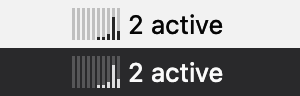
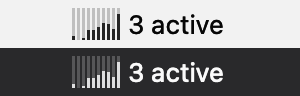
Docs: full-day TODAY screenshots, $ on the SPEND Y labels
demo_data.py --day writes a workday on the clock (from 6:20, plus a
session left running past midnight) so TODAY shots fill 9 of 10 bars.
Re-shot panel, deck, menu-bar icon and og card with v0.2.0. The SPEND
graph's Y labels now read $20 $15 $10 $5 (a smaller $ fits the 15 px
column); SESSIONS labels stay plain. Fix the deck alt text and NOTES.

diff --git a/docs/index.html b/docs/index.html
@@ -333,7 +333,7 @@ footer a:hover { color: var(--fg); }
     <div class="cards">
       <div class="card reveal">
         <div class="bar"><span>Deck</span><span class="meta">docked</span></div>
-        <div class="body"><img class="deck" src="deck.png" width="146" height="92" alt="The docked deck showing $40 per hour"></div>
+        <div class="body"><img class="deck" src="deck.png" width="146" height="92" alt="The docked deck showing $15 per hour"></div>
         <p class="cap">Dock the rack and it shrinks to a small deck with the same graph.</p>
       </div>
       <div class="card reveal">

diff --git a/src/dfx_agent_enhancer/ui/app.css b/src/dfx_agent_enhancer/ui/app.css
@@ -92,6 +92,7 @@ button { font: inherit; border: 0; background: none; color: inherit; cursor: def
 .cols { position: absolute; inset: 0; }
 .col { position: absolute; top: 11px; width: 23px; height: 76.5px; }
 .grid i { position: absolute; left: 0; width: 246px; height: 1px; background: rgba(149, 179, 22, .3); }
+.db small { font-size: 7.5px; letter-spacing: -.3px; margin-right: .2px; vertical-align: .5px; }
 .db span {
   position: absolute; right: 231px; transform: translateY(-50%);
   font: italic 700 9.5px/9px Arial, Helvetica, sans-serif; color: #6f8808; letter-spacing: -.2px;

diff --git a/src/dfx_agent_enhancer/ui/app.js b/src/dfx_agent_enhancer/ui/app.js
@@ -271,7 +271,10 @@
     var sp = s.spectrum[s.metric];
     setHeights($("fills"), sp.heights);
     var yl = $("ylab").children;
-    for (var i = 0; i < yl.length; i++) yl[i].textContent = sp.labels[i] || "";
+    for (var i = 0; i < yl.length; i++) {      // a "$" prefix is drawn smaller so "$40" fits the 15 px column
+      var lab = sp.labels[i] || "";
+      yl[i].innerHTML = lab.charAt(0) === "$" ? '<small>$</small>' + lab.slice(1) : lab;
+    }
     $("lime-text").textContent = sp.tab;
     $("tab-lime").dataset.tip = sp.tip || "";
     renderAxis(s.axis);

diff --git a/tools/demo_data.py b/tools/demo_data.py
@@ -5,6 +5,8 @@
     python3 tools/demo_data.py /tmp/dfx-demo --live      # keep appending every second or so
     python3 tools/demo_data.py /tmp/dfx-demo --at 17:20  # history up to 17:20 today (for screenshots
                                                          # of TODAY; build the snapshot with that now)
+    python3 tools/demo_data.py /tmp/dfx-demo --day [--at 22:40]  # a full workday on the clock for
+                     # TODAY shots: a session left running past midnight, then work from 6:20 to now
 
 Claude Code: three sessions, one with Task subagents and a workflow, streamed assistant
 messages (several records per message.id) with usage as Claude Code writes it (1-hour cache
@@ -70,16 +72,19 @@ def cursor_line(kind: str) -> str:
     return line({"role": "assistant", "message": {"content": [{"type": "tool_use", "name": "ReadFile", "input": {"path": "x"}}]}})
 
 
-def history(path: str, sid: str, model: str, sidechain: bool, now: float, start: float, busy) -> None:
+def history(path: str, sid: str, model: str, sidechain: bool, now: float, start: float, busy,
+            trickle: bool = True, pace: tuple = (8, 40)) -> None:
     """Turns from start to now: one every 8-40 s inside the busy blocks ((from, to) hours before
-    now), a trickle outside them."""
+    now), a trickle outside them (or nothing, without trickle)."""
     os.makedirs(os.path.dirname(path), exist_ok=True)
     with open(path, "w") as f:
         t = start
         while t < now - 5:
             f.write(claude_turn(t, sid, model, sidechain, path))
             hot = any(now - a * 3600 <= t < now - b * 3600 for a, b in busy)
-            t += random.uniform(8, 40) if hot else random.uniform(300, 1200)
+            t += random.uniform(*pace) if hot else random.uniform(300, 1200)
+            if not trickle and not any(now - a * 3600 <= t < now - b * 3600 for a, b in busy):
+                t = min([now - a * 3600 for a, b in busy if now - a * 3600 > t] or [now])   # next block
     os.utime(path, (now, now))
 
 
@@ -90,23 +95,40 @@ def main() -> None:
     if "--at" in sys.argv:
         h, m = map(int, sys.argv[sys.argv.index("--at") + 1].split(":"))
         now = datetime.now().replace(hour=h, minute=m, second=0, microsecond=0).timestamp()
+    day = "--day" in sys.argv
     projects = os.path.join(root, "claude", "projects")
     names = ("api", "web", "docs")       # one project folder per session: the menu lists them by name
     sids = ["5e55e55e-0000-4000-8000-00000000000%d" % i for i in (1, 2, 3)]
     claude_files = []
     # work blocks in hours before now; sessions 1 and 2 are busy again in the last 10 minutes
     busy = [((7.5, 6.2), (3.2, 1.6), (0.17, 0)), ((5.2, 4.1), (2.2, 0.6), (0.17, 0)), ((4, 2.6),)]
+    starts = [now - (8 - 2 * i) * 3600 for i in range(3)]
+    sub_busy = lambda k: ((3.1 - 0.2 * k, 1.8), (0.25, 0))
+    sub_start = lambda k: now - 3.2 * 3600 + 600 * k
+    if day:
+        # clock hours today (negative: yesterday evening); "now" ends the open blocks
+        h0 = datetime.fromtimestamp(now).replace(hour=0, minute=0, second=0, microsecond=0).timestamp()
+        nh = (now - h0) / 3600
+        ago = lambda blocks: tuple((nh - a, max(0.0, nh - b)) for a, b in blocks)
+        busy = [ago(((6.4, 9.6), (13.4, 15.6), (19.8, nh))),
+                ago(((-1.0, 0.9), (10.3, 12.6), (16.1, 18.4), (21.4, nh))),
+                ago(((11.0, 13.0), (17.2, 19.6)))]
+        starts = [h0 + 6.3 * 3600, h0 - 3600, h0 + 10.9 * 3600]
+        sub_busy = lambda k: ago(((13.6 + 0.15 * k, 14.9 - 0.1 * k),) + (((20.6, nh),) if k == 0 else ()))
+        sub_start = lambda k: h0 + (13.5 + 0.15 * k) * 3600
     # session 1: the main driver, with Task subagents and a workflow
     for i, sid in enumerate(sids):
         p = os.path.join(projects, "-Users-you-code-" + names[i], sid + ".jsonl")
-        history(p, sid, "claude-opus-5-5", False, now, now - (8 - 2 * i) * 3600, busy[i])
+        history(p, sid, "claude-opus-5-5", False, now, starts[i], busy[i], trickle=not (day and i == 1),
+                pace=(15, 48) if day else (8, 40))
         claude_files.append((p, sids[i], "claude-opus-5-5", False))
     sub = os.path.join(projects, "-Users-you-code-api", sids[0], "subagents")
     agents = [os.path.join(sub, "agent-a%02d.jsonl" % k) for k in range(3)]
     agents += [os.path.join(sub, "workflows", "wf_demo", "agent-w%02d.jsonl" % k) for k in range(2)]
     for k, p in enumerate(agents):
         model = ("claude-opus-5-5", "claude-sonnet-5-5", "claude-opus-5-5", "claude-haiku-4-5-20251001", "claude-sonnet-5-5")[k]
-        history(p, sids[0], model, True, now, now - 3.2 * 3600 + 600 * k, ((3.1 - 0.2 * k, 1.8), (0.25, 0)))
+        history(p, sids[0], model, True, now, sub_start(k), sub_busy(k), trickle=not day,
+                pace=(20, 60) if day else (8, 40))
         claude_files.append((p, sids[0], model, True))
     with open(os.path.join(sub, "workflows", "wf_demo", "journal.jsonl"), "w") as f:
         f.write(line({"kind": "started", "workflow": "wf_demo"}))

diff --git a/tests/test_snapshot.py b/tests/test_snapshot.py
@@ -408,10 +408,11 @@ def test_spectrum_metric_per_window(roots, window, bucket, start):
         assert snap["axis"][0] == {"x": 0, "text": start} and snap["axis"][-1] == {"x": 1, "text": "now"}
         for m, sp in snap["spectrum"].items():
             assert len(sp["values"]) == len(sp["heights"]) == len(sp["tips"]) == 10
-            assert len(sp["labels"]) == 4 and all(len(x) <= 2 for x in sp["labels"])
+            assert len(sp["labels"]) == 4 and all(len(x.lstrip("$")) <= 2 for x in sp["labels"])
             assert all(0 <= h <= 1 for h in sp["heights"])
         assert snap["spectrum"]["spend"]["tab"] == "Spend $/h"
-        assert snap["spectrum"]["spend"]["labels"] == ["20", "15", "10", "5"]     # the $20/h floor
+        assert snap["spectrum"]["spend"]["labels"] == ["$20", "$15", "$10", "$5"]     # the $20/h floor
+        assert snap["spectrum"]["sessions"]["labels"][0].isdigit()
         assert snap["spectrum"]["sessions"]["tab"] == "Active sessions"
         assert len(snap["rows"]) == 5
         assert snap["deckTip"].endswith(", %s. Click to expand." % snapshot.SHOWN[window])
@@ -516,7 +517,7 @@ def test_spend_tab_names_the_multiplier(roots):
     write(p, asst(NOW - 12, "big", 40000))          # $1.03 in one 30 s bucket: $123/h
     s.refresh(NOW)
     sp = snapshot.build(s, "now", "spend", now=NOW)["spectrum"]["spend"]
-    assert sp["fullScale"] == 200 and sp["tab"] == "Spend $/h ×10" and sp["labels"] == ["20", "15", "10", "5"]
+    assert sp["fullScale"] == 200 and sp["tab"] == "Spend $/h ×10" and sp["labels"] == ["$20", "$15", "$10", "$5"]
     assert sp["tip"].endswith("Top of scale: $200/h.") and "Approximate API cost" in sp["tip"]
     assert sp["values"][-1] == pytest.approx(120 * usd(40000), abs=0.01) and sp["heights"][-1] == 0.615
 

diff --git a/src/dfx_agent_enhancer/snapshot.py b/src/dfx_agent_enhancer/snapshot.py
@@ -461,6 +461,7 @@ def spectrum(a: Agg, metric: str, window: str, scales: dict | None, now: float) 
         rates = [v * 3600 / length for v in a.usd]
         fs = stable(scales, (window, metric), fs_up(max(rates), SPEND_FLOOR), fs_down, now)
         mult, labels = scale_labels(fs, 1)
+        labels = ["$" + x for x in labels]      # the page draws the $ smaller, to fit the 15 px column
         tips = []
         for i in range(NB):
             if a.usd[i] or a.out[i]:

diff --git a/NOTES.md b/NOTES.md
@@ -126,7 +126,7 @@ The user reported: dragging jumps the window to the top of the screen; TODAY sho
 - `sessions/<pid>.json` also has `name` (Claude Code's session name, e.g. `brave-otter-12`, used in the menu), `cwd`, and a third status: `waiting`, with `waitingFor` (`dialog open`, `input needed`, `worker request`, `sandbox request`). Read from the Claude Code 2.1.289 bundle (function that builds the status): a permission prompt or a question is `waiting`, `isLoading || delegatedActive` is `busy` (so a paused workflow stays busy), anything else `idle`. `waiting` is not busy, so it is not "active", and the chime treats busy -> waiting like busy -> idle (the agent stopped and wants you). Seen live on 2026-10-05: a session waiting on a question had `status: waiting, waitingFor: input needed`. A real permission prompt was not watched, but it goes through the same `waiting` branch in the bundle.
 - Chime, tested end to end on 2026-10-05: a compiled stand-in binary named `claude` (a copy of `/bin/sleep` is killed at launch, so it must be built) gives a live pid; a `sessions/<pid>.json` for it in the demo root flipped from busy (since 30 s) to idle made the running app play one chime, record "Last stopped", and show it in the menu. In a 5 min watch of the real `sessions/` files no busy session stopped (they were long workflows), so a real Claude turn ending was not observed.
 - Idle open sessions get bookkeeping lines without a timestamp, so file mtime never means "working" for Claude. Liveness is a timestamped user/assistant record in the last 90 s in any of the session's files, or `sessions/<pid>.json` (pid must be in the `ps` set of `claude` processes) with `status: busy` and a record in any of its transcripts, or a `statusUpdatedAt` (epoch ms), in the last 30 min (`snapshot.BUSY_SILENCE`, the Bash maximum). Claude Code keeps `busy` for hours while a session waits, e.g. on paused workflow agents: on 2026-10-04 three busy sessions (three different projects) had no record in any transcript from about 13:00Z to 19:01Z, and v2 counted them live all that time. Past the cap they count as open, not working. The `sessions/` folder also holds `<pid>.<hash>.key` files; only `*.json` is read.
-- Cursor: `~/.cursor/projects/<project>/agent-transcripts/<id>/<id>.jsonl`, subagents in `<id>/subagents/*.jsonl`. Records are `{"role": ..., "message": {"content": [...]}}` with `text` and `tool_use` blocks (no ids), plus `{"type": "turn_ended", "status": "success"|"error"}`. No timestamps, no usage, no model. Bytes already on disk when a file is first read are dated by that moment's file mtime and kept in separate bins (`FileState.est`) that never count in NOW or as live. Lines appended later get the time they were seen. A file that first appears while the app runs counts entirely as new, using the (mtime, size) of the previous full walk (`Scanner.seen`) as the old baseline. Cursor-only users get `--` tokens and default to the SESSIONS spectrum.
+- Cursor: `~/.cursor/projects/<project>/agent-transcripts/<id>/<id>.jsonl`, subagents in `<id>/subagents/*.jsonl`. Records are `{"role": ..., "message": {"content": [...]}}` with `text` and `tool_use` blocks (no ids), plus `{"type": "turn_ended", "status": "success"|"error"}`. No timestamps, no usage, no model. Bytes already on disk when a file is first read are dated by that moment's file mtime and kept in separate bins (`FileState.est`) that never count in NOW or as live. Lines appended later get the time they were seen. A file that first appears while the app runs counts entirely as new, using the (mtime, size) of the previous full walk (`Scanner.seen`) as the old baseline. Cursor-only users get `--` spend and default to the SESSIONS spectrum.
 - Process matching: Cursor is any command under `/Cursor.app/`, or named `Cursor` / `Cursor Helper*` (a plain "contains Cursor" match also caught macOS's `CursorUIViewService`). Claude Code is a process whose command basename is `claude` (not Claude.app).
 - `~/.cursor/chats/**/store.db` is not read.
 
@@ -228,9 +228,9 @@ The time window is picked with 5 MIN (the last 5 minutes; config value `now`), 1
 
 | Place | Meaning |
 | --- | --- |
-| Graph, SPEND | approximate spend in $/h in each tenth of the window, Claude Code sessions and subagents (input, output, cache writes and reads at API list prices). The lime tab names it: `Spend $/h ×10` means a label of 12 is $120/h |
+| Graph, SPEND | approximate spend in $/h in each tenth of the window, Claude Code sessions and subagents (input, output, cache writes and reads at API list prices). The lime tab names it: `Spend $/h ×10` means a label of $12 is $120/h |
 | Graph, SESSIONS | sessions with activity in each tenth of the window (`Active sessions`); the last bar also counts every session working now |
-| Y labels | real values on a linear scale, at full scale, 3/4, 1/2 and 1/4. Full scale is 4, 8, 12, 20, 40 or 80 × 10^k, rises at once and falls one step a minute |
+| Y labels | real values on a linear scale, at full scale, 3/4, 1/2 and 1/4: `$20 $15 $10 $5` on SPEND (the `$` drawn at 7.5 px so it fits the 15 px column; the multiplier stays in the tab), plain numbers on SESSIONS. Full scale is 4, 8, 12, 20, 40 or 80 × 10^k, rises at once and falls one step a minute |
 | X labels | time: `-5m … now`, `-1h -45m -30m -15m now`, TODAY's `0:00` and whole clock times, WEEK's weekdays |
 | Bar tooltip | the bar's time range and its value: `$46.96 · $28/h` and its output tokens, `no spend`, `Cursor activity, no usage data`, `4 sessions active`. It sits at the top of the plot and moves beside a tall bar, so it never hides the bar it describes |
 | SPEND / SESSIONS keys | switch the graph; remembered. Cursor-only setups default to SESSIONS |
@@ -259,6 +259,7 @@ Override the roots with `DFX_CLAUDE_ROOT` and `DFX_CURSOR_ROOT`, and the config 
 
 ```
 python3 tools/demo_data.py /tmp/dfx-demo --live &      # keeps appending lines
+# or --day: a full workday on the clock (from 6:20, plus a session left running past midnight) for TODAY shots
 DFX_CURSOR_ROOT=/tmp/dfx-demo/cursor DFX_CLAUDE_ROOT=/tmp/dfx-demo/claude \
 DFX_CONFIG=/tmp/dfx-demo/config.json .venv/bin/python -m dfx_agent_enhancer
 ```
@@ -298,5 +299,6 @@ See the sections above for decisions, the window model, threading, the real tran
 - The GitHub Pages site is `docs/` on main: `docs/index.html` (single static file, inline CSS/JS, Google Fonts Geist, Geist Mono and Instrument Serif, no build step), `favicon.svg`, `apple-touch-icon.png`, `og.png` (1200x630 social card), plus the screenshots README also uses.
 - The user asked to "use https://vgpu.sh/". It is Vercel Labs' landing page for vgpu (a WebGPU library), not a page builder, so it was used as a style reference: pure black, Geist + a serif wordmark, left-aligned hero over a full-bleed animated canvas, a minimal tabbed install block with a fading hairline, mono uppercase card headers, and a source-to-outputs connector diagram. Our hero canvas draws the rack's 10 spectrum colours as bars on a 96x54 canvas, blurred by CSS (static under prefers-reduced-motion).
 - The star count comes from `api.github.com/repos/orenyomtov/dfx-agent-enhancer` and is hidden on failure or when it is 0.
-- `og.png` and `apple-touch-icon.png` are rendered with headless Chrome from `tools/og/og.html` (1200x630) and `tools/og/icon.html` (180x180), which load `panel.png` and `favicon.svg` from the same folder: copy `docs/panel.png` and `docs/favicon.svg` next to them first. Re-render if the panel screenshot changes.
+- Docs screenshots (2026-10-06, v0.2.0): `python3 tools/demo_data.py DIR --day` (no `--at`: the history ends at the real now, which the live app uses), then `tools/shoot.py` against it. The screen is Retina now, so `shoot.py` writes `panel.png` 544x872 and `mini.png` 292x184 (= `docs/deck.png`) directly, transparent outside the rack. Take them late in the evening (around 22:00-23:00): TODAY runs from midnight, so only then do 9 of the 10 bars carry the day (2:00-4:30 stays empty). The day costs about $150, so the SPEND digits read `150` without the sign (`$` shows only below $99.5); about $85 would keep it, but then the bars only reach about a third of the $20/h floor scale. The silver tab's `N open` comes from the real process list, so it varies. `docs/menubar.png` comes from `menubar_doc.py` (scratchpad `/private/tmp/claude-501/v4/`, also in `/private/tmp/claude-501/shots/`) fed with a snapshot JSON from the offscreen `render.py`.
+- `og.png` and `apple-touch-icon.png` are rendered with headless Chrome from `tools/og/og.html` (1200x630) and `tools/og/icon.html` (180x180), which load `panel.png` and `favicon.svg` from the same folder: copy `docs/panel.png` and `docs/favicon.svg` next to them first (and delete the copies after; they are not tracked). Re-render if the panel screenshot changes. Headless Chrome writes the screenshot and then often does not exit: start it in the background, wait for the file, then kill it by its `--user-data-dir`.
 - Site (docs/index.html): content must be visible without animations. Entrance (`.rise`) and scroll reveal (`.reveal.pre`) only use transform, never opacity, because headless Chrome and occluded windows stall animations and left the hero invisible. Reveal only applies to elements that start below the fold. On mobile `.hero-copy` is `display: contents` so the rack can sit between the install block and the CTAs.
